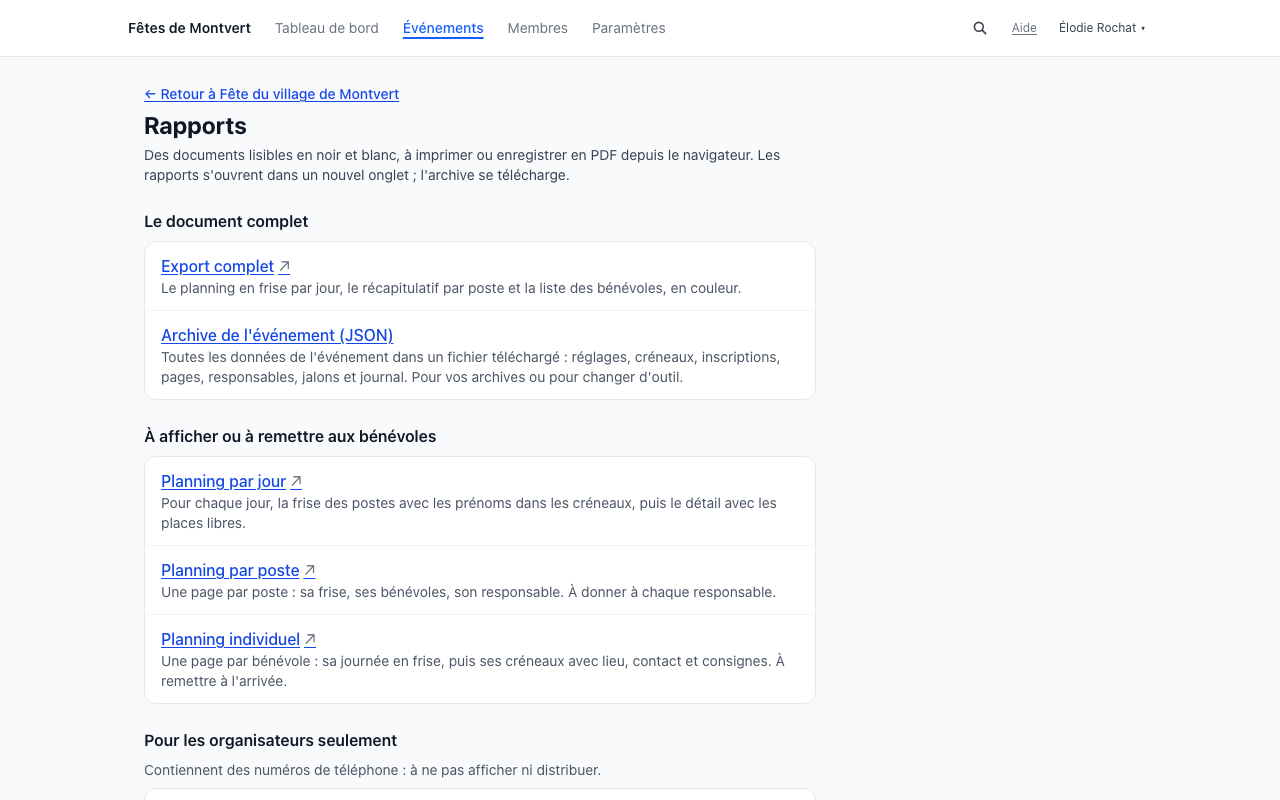
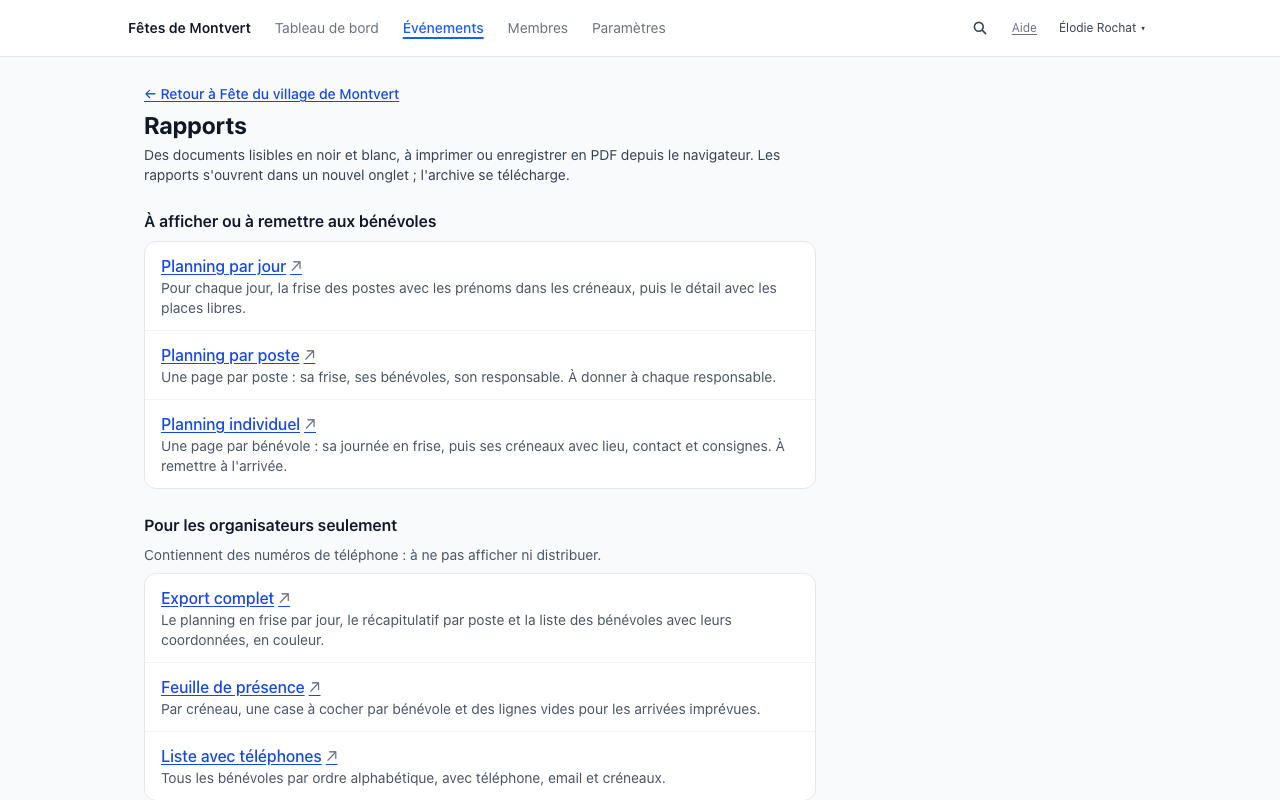
feat: reports page lists the full export with organizer-only documents and the archive last
The full export carries the volunteers' phones and emails: it now sits
first in « Pour les organisateurs seulement », described by that
section's « ne pas afficher ni distribuer » note, instead of in a
separate « Le document complet » section at the top. The JSON archive
moves to its own « Archive » section at the end, after the badges. The
note on members' planned hours joins the intro, since it applies to
every document.

GUIDE_ADMIN.md table, intro and screenshot follow the new order. New
e2e/reports-page.spec.ts checks the sections, where both links are, the
export's description, the archive download and axe.

Changed region(s): [[0.0938, 0.3125, 0.5938, 1.0], [0.0938, 0.25, 0.3438, 0.2812], [0.375, 0.5312, 0.5938, 0.5625]]

diff --git a/src/app/admin/events/[id]/print/page.tsx b/src/app/admin/events/[id]/print/page.tsx
@@ -14,7 +14,10 @@ export const metadata: Metadata = { title: "Rapports" }
 const linkClass =
   "font-medium text-blue-700 underline underline-offset-2 hover:text-blue-900 rounded focus-visible:outline focus-visible:outline-2 focus-visible:outline-offset-2 focus-visible:outline-blue-600"
 
-/** Reports of an event (#400): the full export first, then five sheets, each opened in a new tab and printed from there. */
+/**
+ * Reports of an event (#400): sheets for volunteers, then organizer-only documents (the full export
+ * first), badges, and the JSON archive last. Reports open in a new tab and are printed from there.
+ */
 export default async function ReportsPage({ params }: { params: Promise<{ id: string }> }) {
   const ctx = await getOrgContext()
   if (!ctx) redirect("/admin/login")
@@ -67,17 +70,9 @@ export default async function ReportsPage({ params }: { params: Promise<{ id: st
         <Link href={`/admin/events/${event.id}`} className={`text-sm ${linkClass}`}><span aria-hidden="true">← </span>Retour à {event.title}</Link>
         <h1 id="page-heading" tabIndex={-1} className="text-2xl font-bold text-gray-900 mt-1 focus:outline-none">Rapports</h1>
         <p className="text-sm text-gray-700 mt-1">
-          Des documents lisibles en noir et blanc, à imprimer ou enregistrer en PDF depuis le navigateur. Les rapports s&apos;ouvrent dans un nouvel onglet ; l&apos;archive se télécharge.
+          Des documents lisibles en noir et blanc, à imprimer ou enregistrer en PDF depuis le navigateur. Les rapports s&apos;ouvrent dans un nouvel onglet ; l&apos;archive se télécharge. Les heures planifiées des membres ne figurent dans aucun de ces documents.
         </p>
       </div>
-
-      <section aria-labelledby="reports-full" className="space-y-2">
-        <h2 id="reports-full" className="text-base font-semibold text-gray-900">Le document complet</h2>
-        <ul role="list" className="bg-white border border-gray-200 rounded-xl divide-y divide-gray-100">
-          {row(`${base}/pdf`, "Export complet", "Le planning en frise par jour, le récapitulatif par poste et la liste des bénévoles, en couleur.")}
-          {row(`${base}/archive`, "Archive de l'événement (JSON)", "Toutes les données de l'événement dans un fichier téléchargé : réglages, créneaux, inscriptions, pages, responsables, jalons et journal. Pour vos archives ou pour changer d'outil.", undefined, "download")}
-        </ul>
-      </section>
 
       <section aria-labelledby="reports-volunteers" className="space-y-2">
         <h2 id="reports-volunteers" className="text-base font-semibold text-gray-900">À afficher ou à remettre aux bénévoles</h2>
@@ -90,6 +85,7 @@ export default async function ReportsPage({ params }: { params: Promise<{ id: st
         <h2 id="reports-organizers" className="text-base font-semibold text-gray-900">Pour les organisateurs seulement</h2>
         <p id="reports-organizers-note" className="text-sm text-gray-600">Contiennent des numéros de téléphone : à ne pas afficher ni distribuer.</p>
         <ul role="list" className="bg-white border border-gray-200 rounded-xl divide-y divide-gray-100">
+          {row(`${base}/pdf`, "Export complet", "Le planning en frise par jour, le récapitulatif par poste et la liste des bénévoles avec leurs coordonnées, en couleur.", "reports-organizers-note")}
           {forOrganizers.map((v) => row(`${base}/sheets/${v.id}`, v.name, v.description, "reports-organizers-note"))}
         </ul>
       </section>
@@ -136,7 +132,12 @@ export default async function ReportsPage({ params }: { params: Promise<{ id: st
           </button>
         </form>
       </section>
-      <p className="text-sm text-gray-600">Les heures planifiées des membres ne figurent dans aucun de ces documents.</p>
+      <section aria-labelledby="reports-archive" className="space-y-2">
+        <h2 id="reports-archive" className="text-base font-semibold text-gray-900">Archive</h2>
+        <ul role="list" className="bg-white border border-gray-200 rounded-xl divide-y divide-gray-100">
+          {row(`${base}/archive`, "Archive de l'événement (JSON)", "Toutes les données de l'événement dans un fichier téléchargé : réglages, créneaux, inscriptions, pages, responsables, jalons et journal. Pour vos archives ou pour changer d'outil.", undefined, "download")}
+        </ul>
+      </section>
     </div>
   )
 }

diff --git a/e2e/reports-page.spec.ts b/e2e/reports-page.spec.ts
@@ -1,0 +1,48 @@
+import { test, expect, type Page } from "@playwright/test"
+import { seriousViolations } from "./helpers/axe"
+
+/**
+ * The « Rapports » page of an event: what is printed for volunteers first, then what only the
+ * organizers may see (the full export carries phones and emails), the badges, and the JSON archive
+ * last.
+ */
+const ORG_ADMIN_EMAIL = process.env.ORG_ADMIN_EMAIL ?? "org-admin@localhost"
+const ORG_ADMIN_PASSWORD = process.env.ORG_ADMIN_PASSWORD ?? "e2e-org-admin-password"
+
+async function openReports(page: Page) {
+  await page.goto("/admin/login")
+  await page.getByLabel("Email").fill(ORG_ADMIN_EMAIL)
+  await page.getByLabel("Mot de passe").fill(ORG_ADMIN_PASSWORD)
+  await page.getByRole("button", { name: "Se connecter" }).click()
+  await expect(page).toHaveURL(/\/admin\/events/)
+  const res = await page.request.post("/api/admin/events", {
+    data: { title: `E2E Rapports ${Date.now()}`, startDate: "2030-10-01", endDate: "2030-10-01", publicStatus: "draft" },
+  })
+  expect(res.ok(), await res.text()).toBeTruthy()
+  const event: { id: string } = await res.json()
+  await page.goto(`/admin/events/${event.id}/print`)
+  await expect(page.getByRole("heading", { level: 1, name: "Rapports" })).toBeVisible()
+}
+
+test("sections in order: volunteers, organizers only (with the full export), badges, archive last", async ({ page }) => {
+  await openReports(page)
+  await expect(page.getByRole("heading", { level: 2 })).toHaveText([
+    "À afficher ou à remettre aux bénévoles",
+    "Pour les organisateurs seulement",
+    "Badges",
+    "Archive",
+  ])
+
+  const organizers = page.getByRole("region", { name: "Pour les organisateurs seulement" })
+  const exportLink = organizers.getByRole("link", { name: /^Export complet/ })
+  await expect(exportLink).toBeVisible()
+  // The full export lists phones: it is described by the section's « ne pas afficher » note.
+  await expect(exportLink).toHaveAccessibleDescription(/coordonnées.*numéros de téléphone/)
+  await expect(page.getByRole("region", { name: "À afficher ou à remettre aux bénévoles" }).getByRole("link", { name: /Export complet/ })).toHaveCount(0)
+
+  const archive = page.getByRole("region", { name: "Archive" }).getByRole("link", { name: /^Archive de l'événement \(JSON\)/ })
+  await expect(archive).toBeVisible()
+  await expect(archive).toHaveAttribute("download", "")
+
+  expect(await seriousViolations(page)).toEqual([])
+})

diff --git a/GUIDE_ADMIN.md b/GUIDE_ADMIN.md
@@ -532,19 +532,19 @@ Ces rappels sont envoyés sans intervention de votre part pour les événements 
 
 ### Rapports
 
-**`/admin/events/[id]/print`**, depuis la page de l'événement (**Rapports**). Des documents à imprimer ou enregistrer en PDF depuis le navigateur, chacun ouvert dans un nouvel onglet :
+**`/admin/events/[id]/print`**, depuis la page de l'événement (**Rapports**). Des documents à imprimer ou enregistrer en PDF depuis le navigateur, chacun ouvert dans un nouvel onglet ; l'archive de l'événement se télécharge :
 
-![Page « Rapports » d'un événement : export complet et archive JSON, puis les plannings à remettre aux bénévoles (par jour, par poste, individuel), et le début de la section réservée aux organisateurs](/doc-img/admin-print.png)
+![Page « Rapports » d'un événement : les plannings à remettre aux bénévoles (par jour, par poste, individuel), puis la section réservée aux organisateurs, qui commence par l'export complet](/doc-img/admin-print.png)
 
 | Document | Contenu | Pour qui |
 |---|---|---|
-| Export complet | le planning en frise par jour, le récapitulatif par poste et la liste des bénévoles (en couleur) | l'équipe d'organisation |
-| Archive de l'événement (JSON) | un fichier téléchargé avec toutes les données de l'événement : réglages, créneaux, inscriptions, pages, responsables, jalons et journal | vos archives, ou pour changer d'outil |
 | Planning par jour | pour chaque jour, la frise des postes avec les prénoms dans les créneaux, puis le détail avec les places libres | affichage, bénévoles |
 | Planning par poste | une page par poste : sa frise, ses créneaux, ses bénévoles, son responsable de secteur | chaque responsable |
 | Planning individuel | une page par bénévole : sa journée en frise, puis chaque créneau avec lieu de rendez-vous, contact et consignes | à remettre à l'arrivée |
+| Export complet | le planning en frise par jour, le récapitulatif par poste et la liste des bénévoles avec leurs coordonnées (en couleur) | organisateurs seulement (téléphones et emails) |
 | Feuille de présence | par créneau, une case à cocher par bénévole (déjà cochée si la présence a été marquée dans l'application), heure d'arrivée, remarque, et des lignes vides pour les arrivées imprévues | organisateurs |
 | Liste avec téléphones | tous les bénévoles par ordre alphabétique, téléphone, email et créneaux | organisateurs seulement |
+| Archive de l'événement (JSON) | un fichier téléchargé avec toutes les données de l'événement : réglages, créneaux, inscriptions, pages, responsables, jalons et journal | vos archives, ou pour changer d'outil |
 
 Sauf l'export complet, ces documents sont conçus pour le noir et blanc. La feuille de présence en CSV se télécharge depuis les inscriptions (voir « Présences le jour J »). Les heures planifiées des membres n'y figurent jamais ; les documents avec téléphones portent la mention « ne pas afficher ni distribuer ».
 

diff --git a/CHANGELOG.md b/CHANGELOG.md
@@ -7,6 +7,10 @@ Format basé sur [Keep a Changelog](https://keepachangelog.com/fr/1.0.0/).
 
 ## [Unreleased]
 
+### Modifié
+
+- **Page Rapports d'un événement réorganisée** : l'export complet, qui liste les téléphones et emails des bénévoles, est rangé dans « Pour les organisateurs seulement » ; l'archive de l'événement (JSON) passe en fin de page, après les badges.
+
 ### Corrigé
 
 - **Fenêtres de l'administration** (#585) : la touche Tab ne sort plus de la fenêtre d'import des membres à l'étape d'aperçu pour aller sur la page derrière, et un focus resté hors d'une fenêtre y revient au premier Tab. Sur Safari (iPhone, iPad, Mac), qui ne donne pas le focus à un bouton touché ou cliqué, le focus revient à la fermeture d'une fenêtre sur le bouton qui l'a ouverte, et non plus au début du contenu de la page ; de même dans « Gérer les postes », sur « Renommer » après un renommage validé ou annulé. Pendant un enregistrement, le bouton « Fermer » d'une fenêtre reste atteignable et est annoncé comme indisponible.
